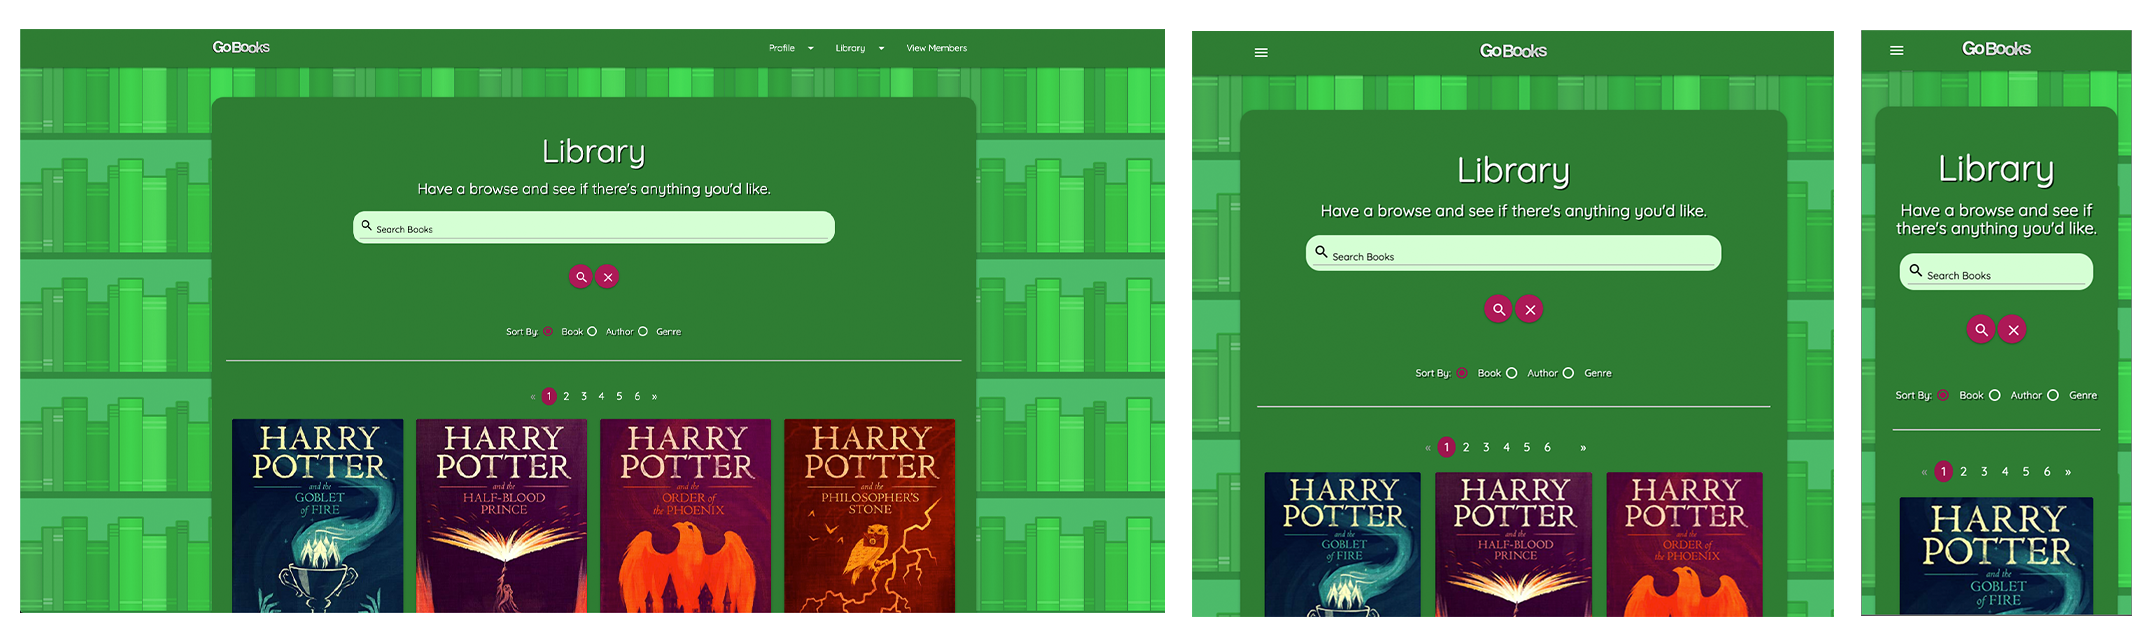
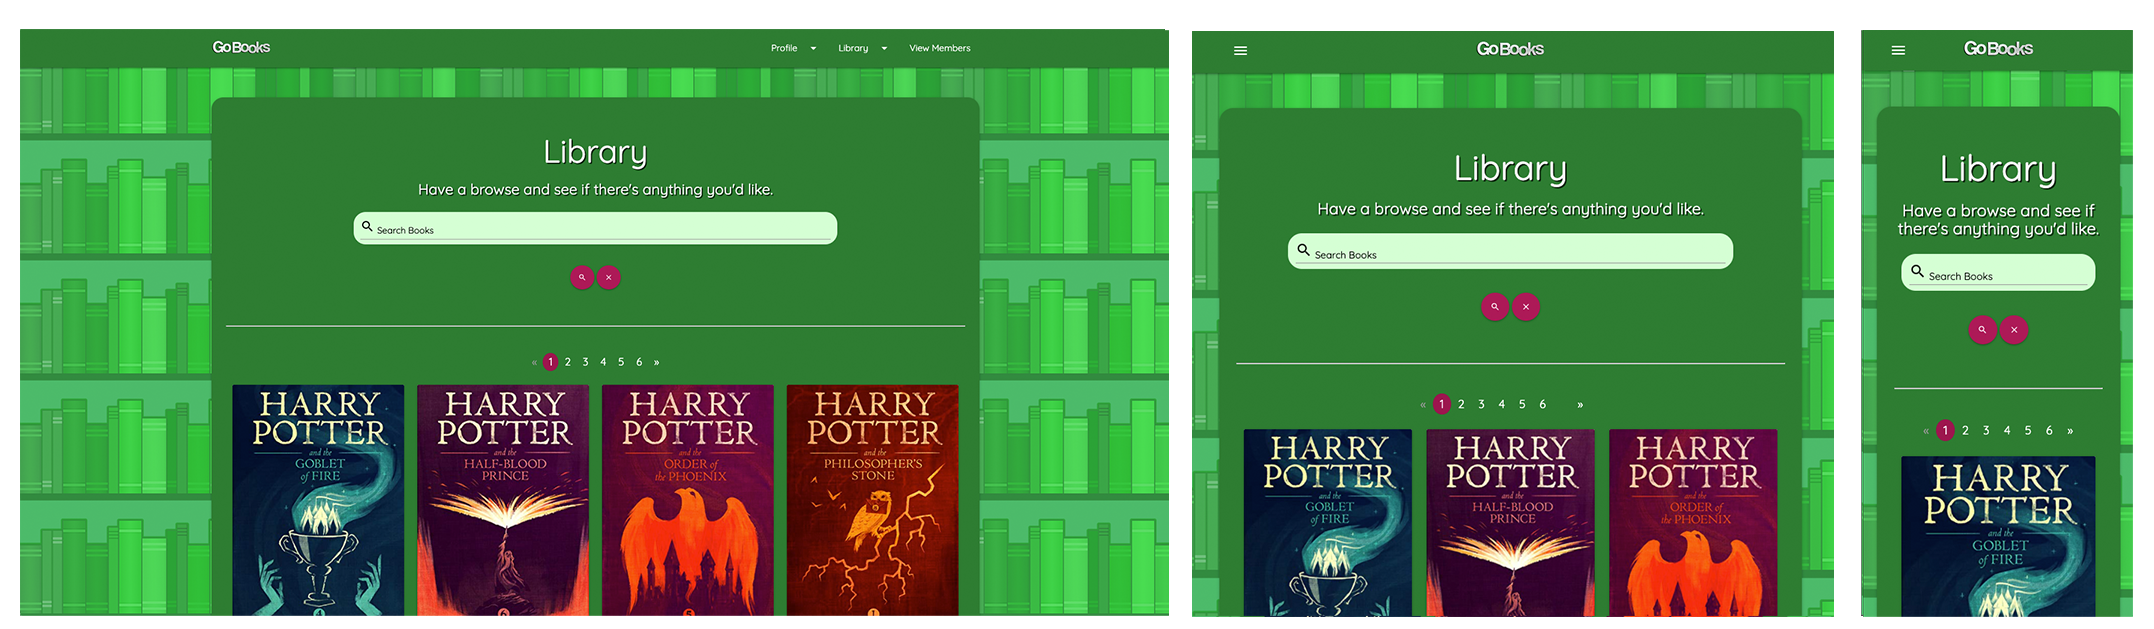
update README to ensure everything has been included

diff --git a/README.md b/README.md
@@ -21,7 +21,7 @@
  - [**Technologies Used**](#technologies-used)
     - [Languages](#languages)
     - [APIS and Frameworks](#apis-and-frameworks)
-    - [Hosting, Databases and Version Control](#hosting,-databases-and-version-control)
+    - [Hosting Databases and Version Control](#hosting-databases-and-version-control)
     - [Websites](#websites)
 
  - [**Testing**](#testing)
@@ -31,6 +31,9 @@
     - [Meeting Project Needs](#meeting-project-needs)
 
  - [**Deployment**](#deployment)
+    - [Heroku Deployment](#heroku-deployment)
+    - [Running This Project From The Repository](#running-this-project-from-the-repository)
+    - [Running This Project Locally](#running-this-project-locally)
 
  - [**Credits**](#credits)
     - [Content](#content)
@@ -76,6 +79,7 @@ encourage engagement through a user-friendly aesthetic.
 
 **As an Admin I want to:**
 * Have the ability to delete reviews that may be deemed rude or offensive.
+* Have the ability to delete books that may contain incorrect or inappropriate information.
 * Have the ability to remove members who abuse the service.
 
 **As Site Owner I want to:**
@@ -134,7 +138,6 @@ reviews. This also meant that a review could be deleted without affecting the bo
 Reviews auto populate the necessary information from the user's entry in the Members collection, and the book's information from the Library collection, so that the user only needs to add their written review
 and a book rating while the rest is filled in behind the scenes.
 
-
 ---
 
 # Features
@@ -186,7 +189,8 @@ Users can view the profiles of other members via the members list page, which ar
 ![Library](documents/images/library.png)
 
 Here users can view the entire contents of the library, or narrow down their search using the search bar above. Books are split into cards, with a truncated version of the book description 
-visible when the card is expanded. Users can click through to read more about their book of choice, or can add a book via the link at the bottom of the page.
+visible when the card is expanded. Users can click through to read more about their book of choice, or can add a book via the link at the bottom of the page. A future feature will allow the
+user to further define the library results by sorting it by book name, author name, or genre.
 
 
 ### Book page
@@ -245,7 +249,7 @@ a self-published author, he has access to his own affiliate link generator, so t
    `{https://www.amazon.co.uk/dp/}{1787633616}{&linkCode=ll1&tag=robertclark08-21&linkId=d522b720d1fabb445aea2ff6829000fb}`
 * Expanding the admin function to encompass more than just the **"AdminUser"** user. This would be devloped by granting current admins the access to nominate other users to admin status, toggling
 their "is_admin" field in the member database to True. Unfortunately time constraints stopped this from being included in the current build.
-   
+* A feature that was unfortunately cut due to time restaints was the implementation of a sort feature for the library. Users would be able to sort the results by book name, author name or genre.
 
 ---
 
@@ -289,7 +293,7 @@ their "is_admin" field in the member database to True. Unfortunately time constr
 
 * [Bson](https://docs.mongodb.com/manual/reference/bson-types/)
 
-## Hosting, Databases and Version Control
+## Hosting Databases and Version Control
 
 * [MongoDB](https://www.mongodb.com/)
 
@@ -433,7 +437,6 @@ To counter this, validation was added to each form to ensure that only the corre
 </div>
 ```
 
----
 
 ## Responsive Design
 
@@ -442,7 +445,7 @@ to ensure each feature was responsive and compatible. The only issue that arose 
 and adding or editing a review. These were quickly fixed to ensure that on small screen sizes they filled more of the screen than on larger desktops.
 
 
-## Validator Testing
+## Validator Tests
 
 ### W3 HTML Validator 
 The [W3C Markup Validation](https://validator.w3.org/) was used to ensure HTML met the necessary standards.
@@ -586,7 +589,6 @@ The [W3C Markup Validation](https://validator.w3.org/) was used to ensure HTML m
 
 * Validator confirmed **All right**
 
----
 
 ## Meeting Project Needs
 
@@ -596,7 +598,6 @@ The [W3C Markup Validation](https://validator.w3.org/) was used to ensure HTML m
 3. Understand the benefits of becoming a member and locate the Register page.
 
 Through the introductory text on the homepage, the user is given an insight into the purpose of the site, and given easy access to a registration page, therefore meeting the criteria.
-
 
 **As a Member I want to:**
 1. Be able to write, edit and delete my own reviews.
@@ -609,20 +610,18 @@ Through the introductory text on the homepage, the user is given an insight into
 Members are given a wealth of actions available to them upon registration completion. Search functions allow them access to the library, while the Lucky Dip and What's Hot pages offer something
 new and unexpected. Members can add books, and add, edit or delete reviews, and can view the reviews of other members, therefore meeting all the criteria.
 
-
 **As an Admin I want to:**
 1. Have the ability to delete reviews that may be deemed rude or offensive.
-2. Have the ability to remove members who abuse the service.
+2. Have the ability to delete books that may contain incorrect or inappropriate information.
+3. Have the ability to remove members who abuse the service.
 
 A dedicated Admin account was created to meet these needs. When the user logs into **AdminUser** they can access restricted options to edit or delete books or members who do not meet the standards
 of the GoBooks website.
-
 
 **As Site Owner I want to:**
 1. Encourage users to become members and grow the platform.
 
 Through the implementation of various member options, the site has proved its usefulness, and will continue to expand as future features are added. Therefore the site owner criteria are met.
-
 
 ---
 
@@ -650,7 +649,7 @@ This project was deployed to Heroku via the following steps:
 8. Once Heroku has completed building the app, click **View App** to open it.
 
 
-## Running this project from the repository
+## Running This Project From The Repository
 
 This project was created using **Gitpod** and pushed to **GitHub**. To deploy this page to GitHub from its GitHub repository, the following steps were taken:
 
@@ -667,7 +666,7 @@ This project was created using **Gitpod** and pushed to **GitHub**. To deploy th
 6. This will create a link, visible just **below the GitHub Pages title**, which will take you to the deployed website.
 
 
-## Running this project locally
+## Running This Project Locally
 
    To clone this project into Gitpod you will need:
 
